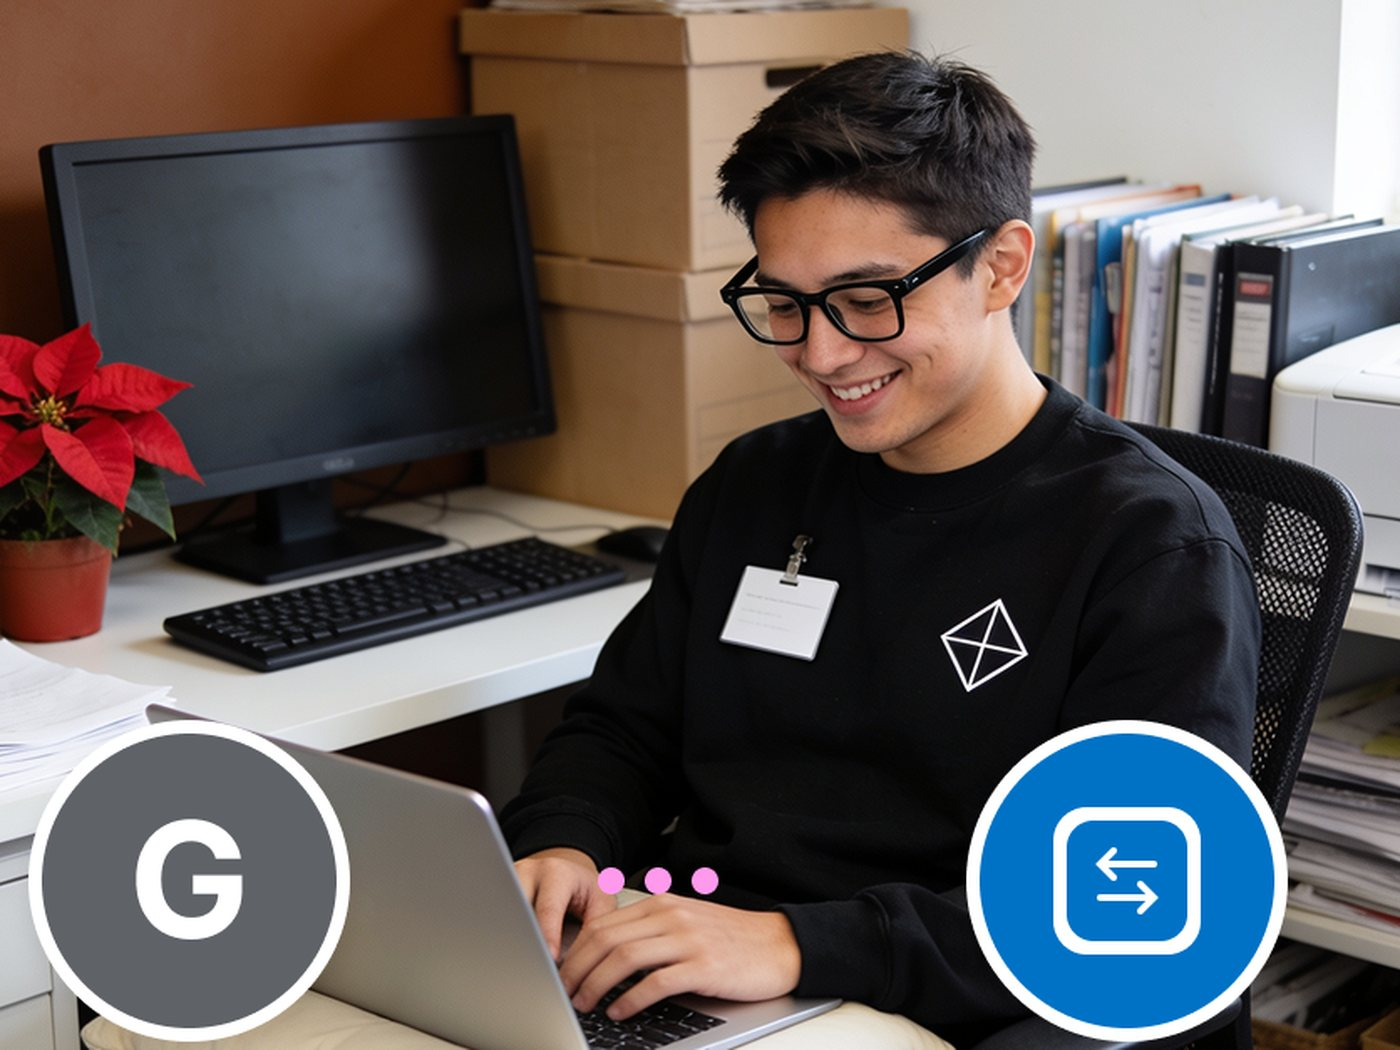
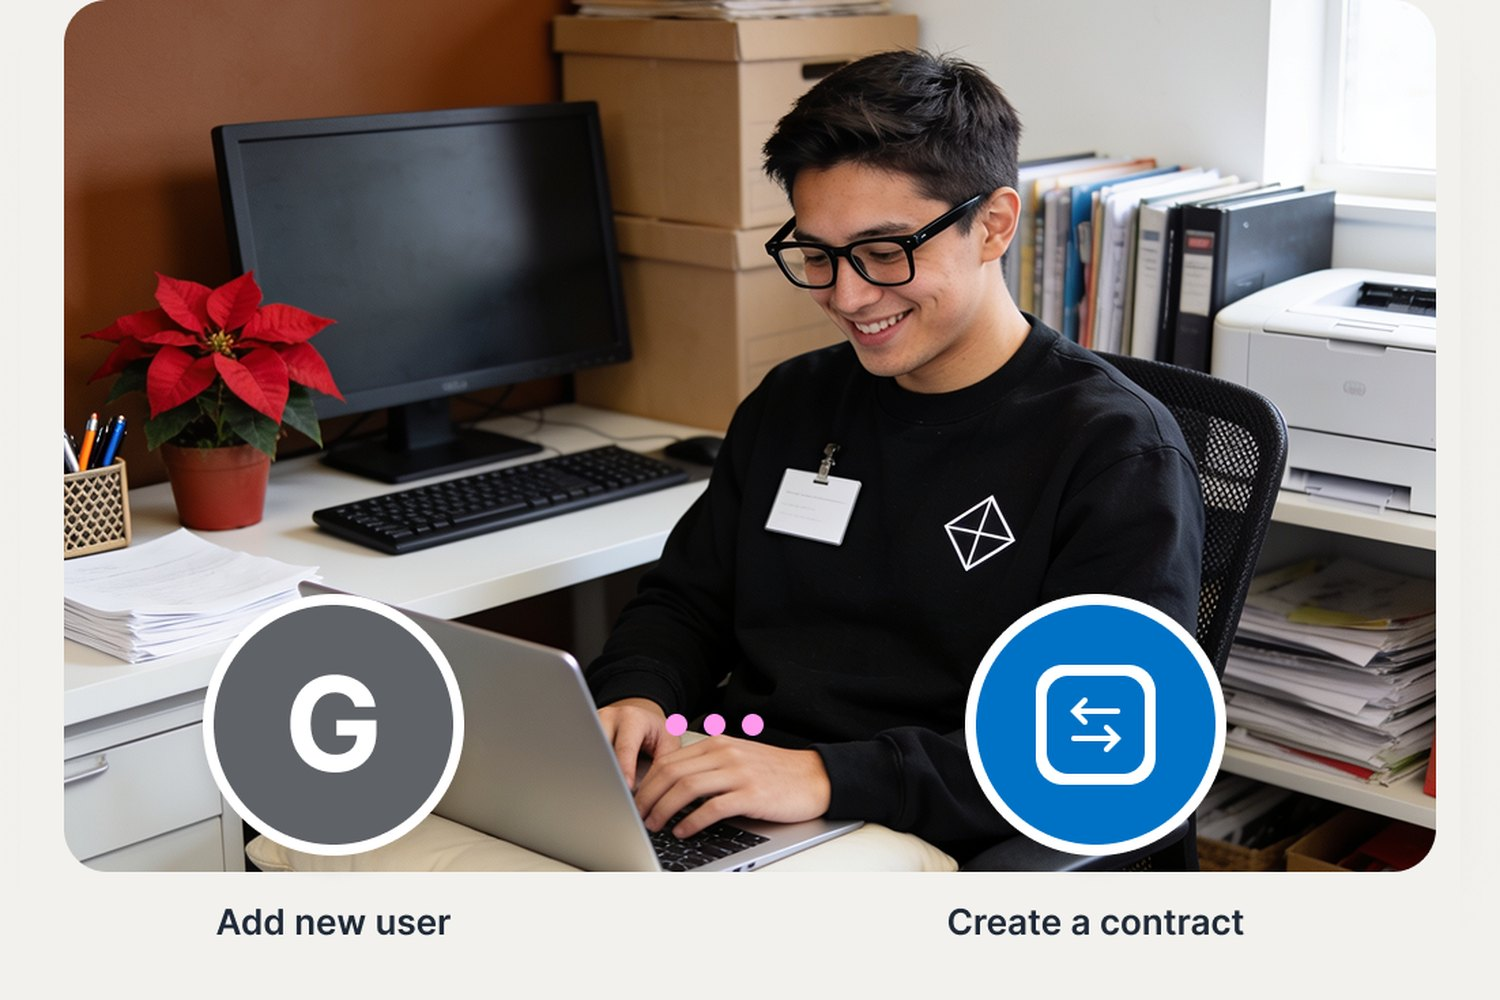
Keep the captions in the business-type image
The captions were not missing because of a crop alone. In the source PNG they
are dark navy text — rgb(31, 41, 55) — drawn on fully transparent pixels,
meant to sit on a light page. Flattening RGBA to RGB composited them onto
black, which made dark-on-dark, and the brightness pass that found the
photograph then read that strip as background and cut it off.

The image is now composited onto the page ground rather than black, so the
captions read as drawn, and the crop keeps the whole graphic inside the
alpha bounds. The frame moves from 4:3 to 3:2 to match the graphic's own
1.48 ratio, and drops its warm gradient for a flat pearl, since the artwork
now brings its own ground.

Verified at 1440, 1024, 768 and 390 — captions legible at every width, no
overflow on any page.

Claude-Session: https://claude.ai/code/session_01KDJBwuuMBFsACpriA1tzT9

diff --git a/src/components/home/audience-picker.module.css b/src/components/home/audience-picker.module.css
@@ -51,12 +51,12 @@
    copy sliced both sides off. */
 .shotPhoto {
   position: relative;
-  aspect-ratio: 4 / 3;
+  aspect-ratio: 3 / 2;
   margin: 0;
   overflow: hidden;
   border: 1px solid var(--line);
   border-radius: 18px;
-  background: linear-gradient(150deg, rgba(189, 150, 112, .16), rgba(121, 0, 24, .06));
+  background: var(--pearl);
 }
 .shotPhoto img { object-fit: cover; }
 
